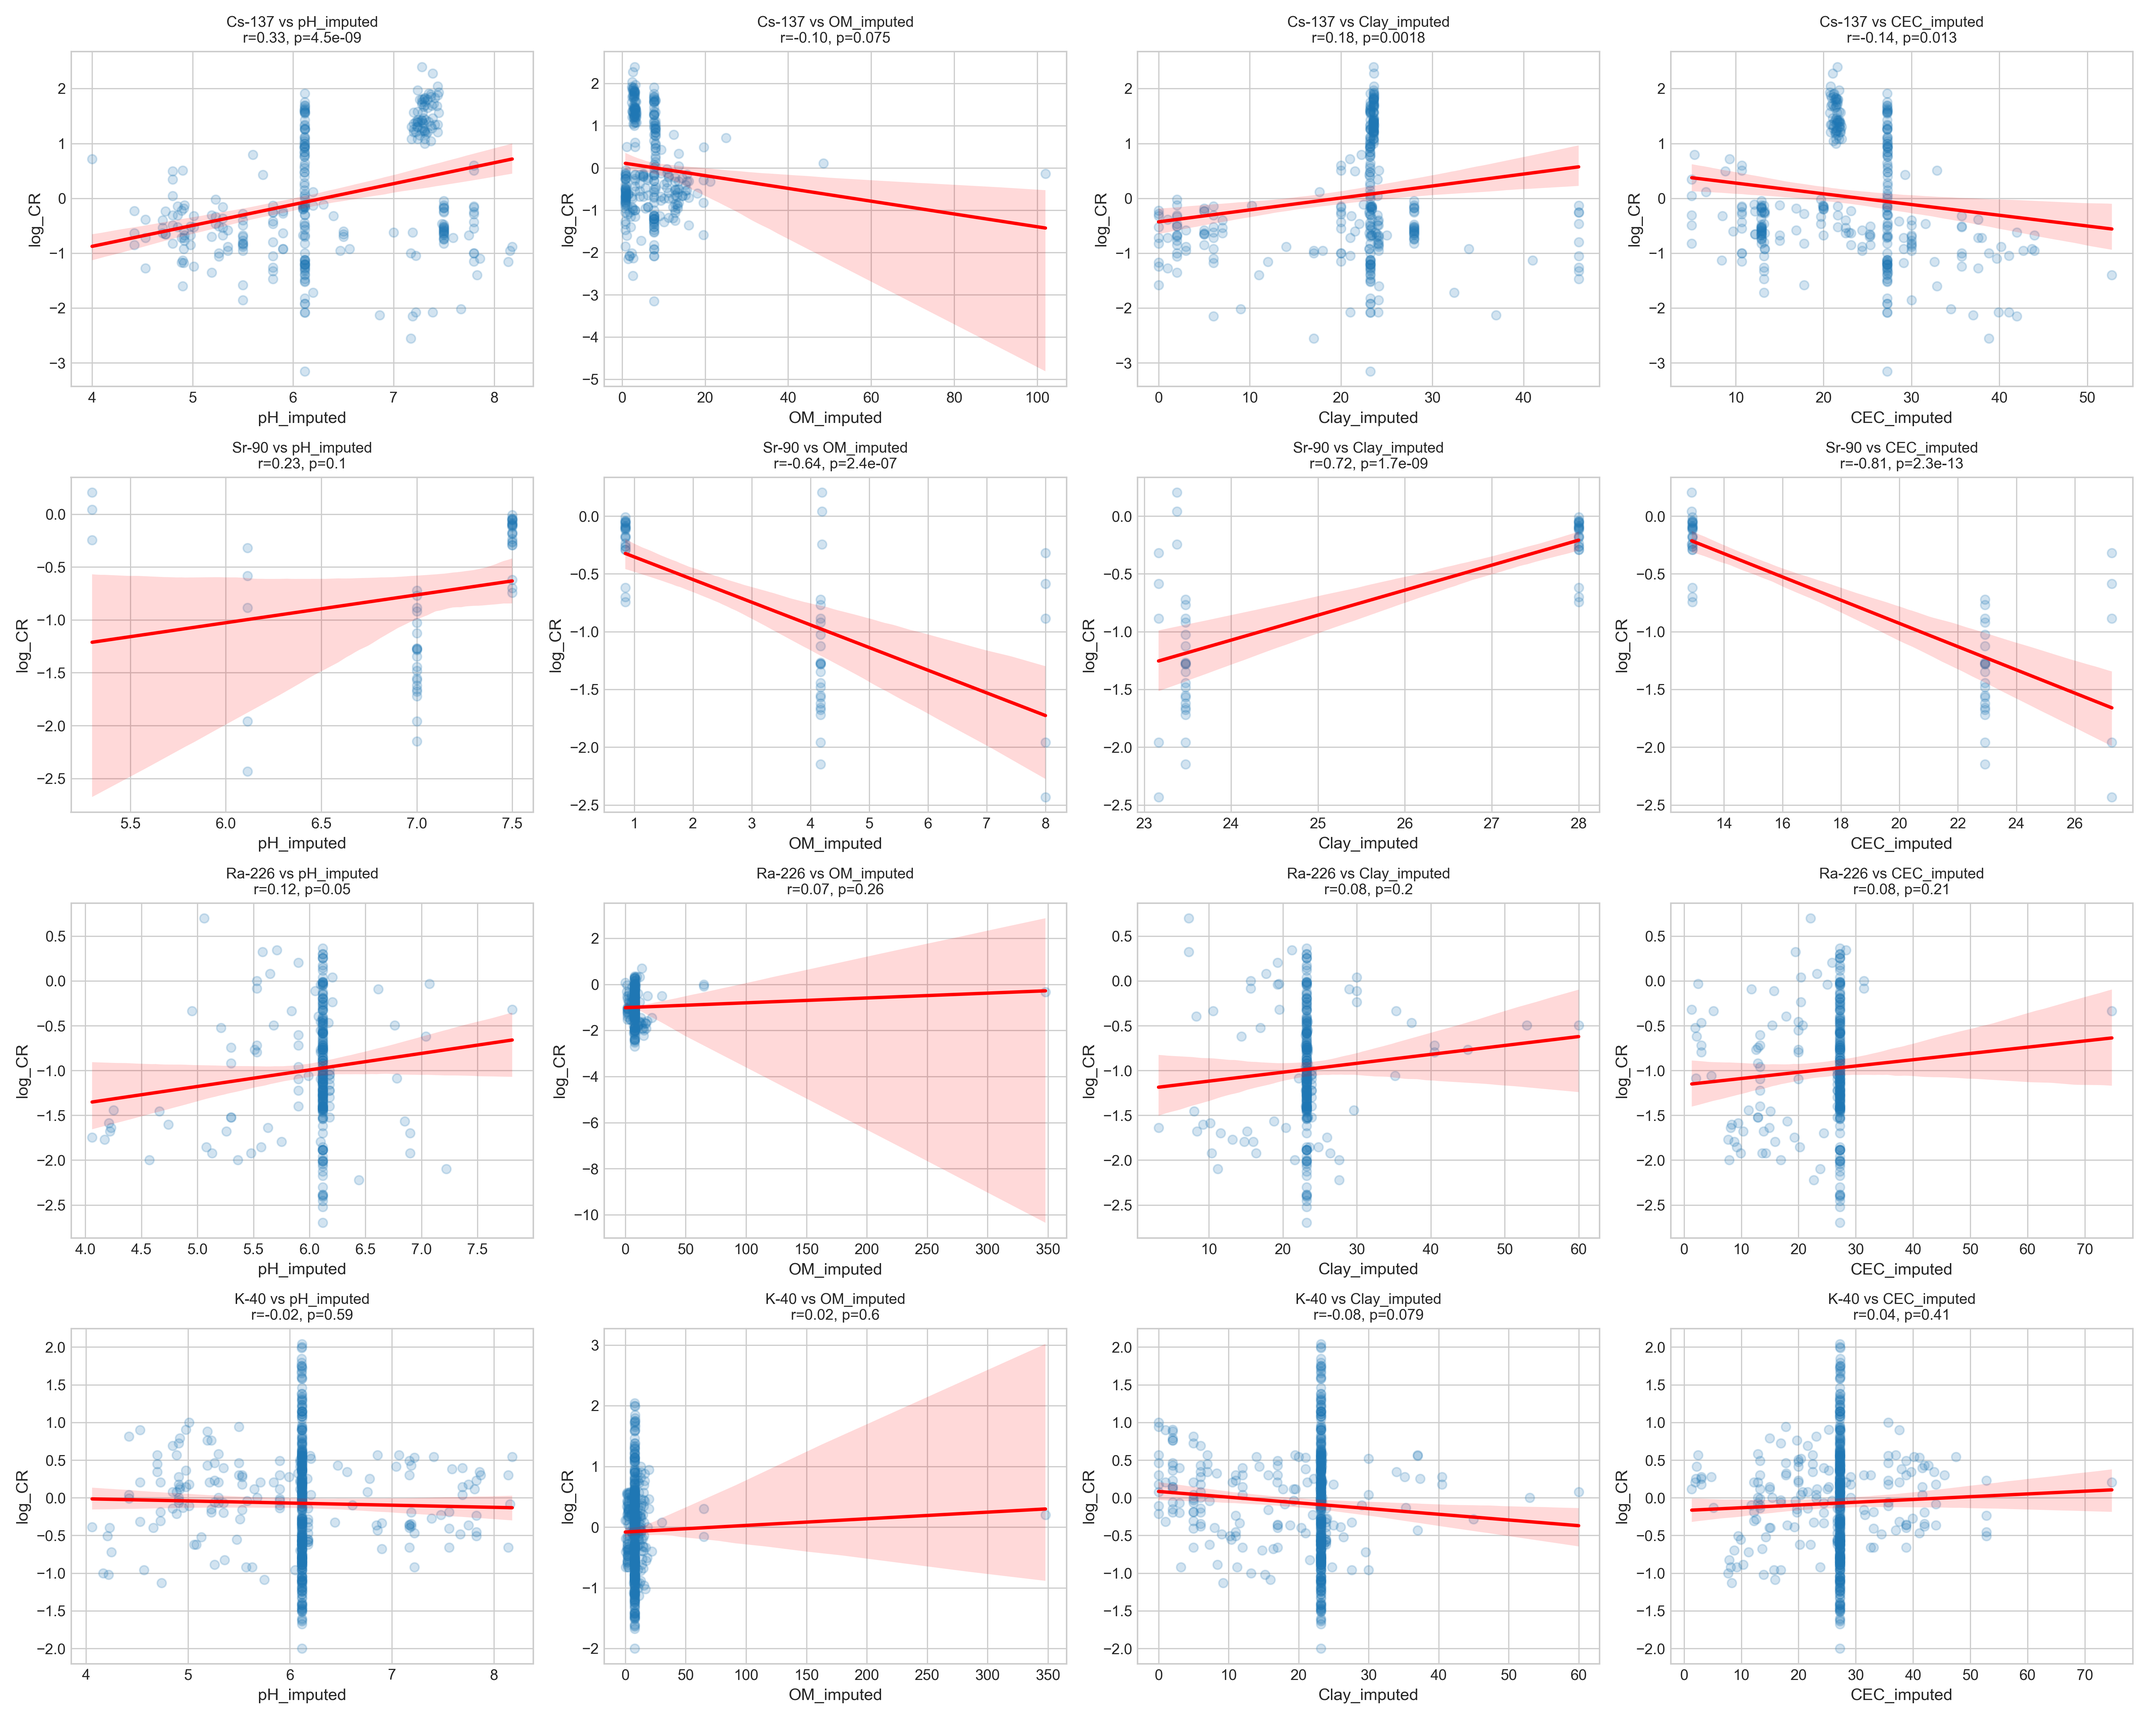
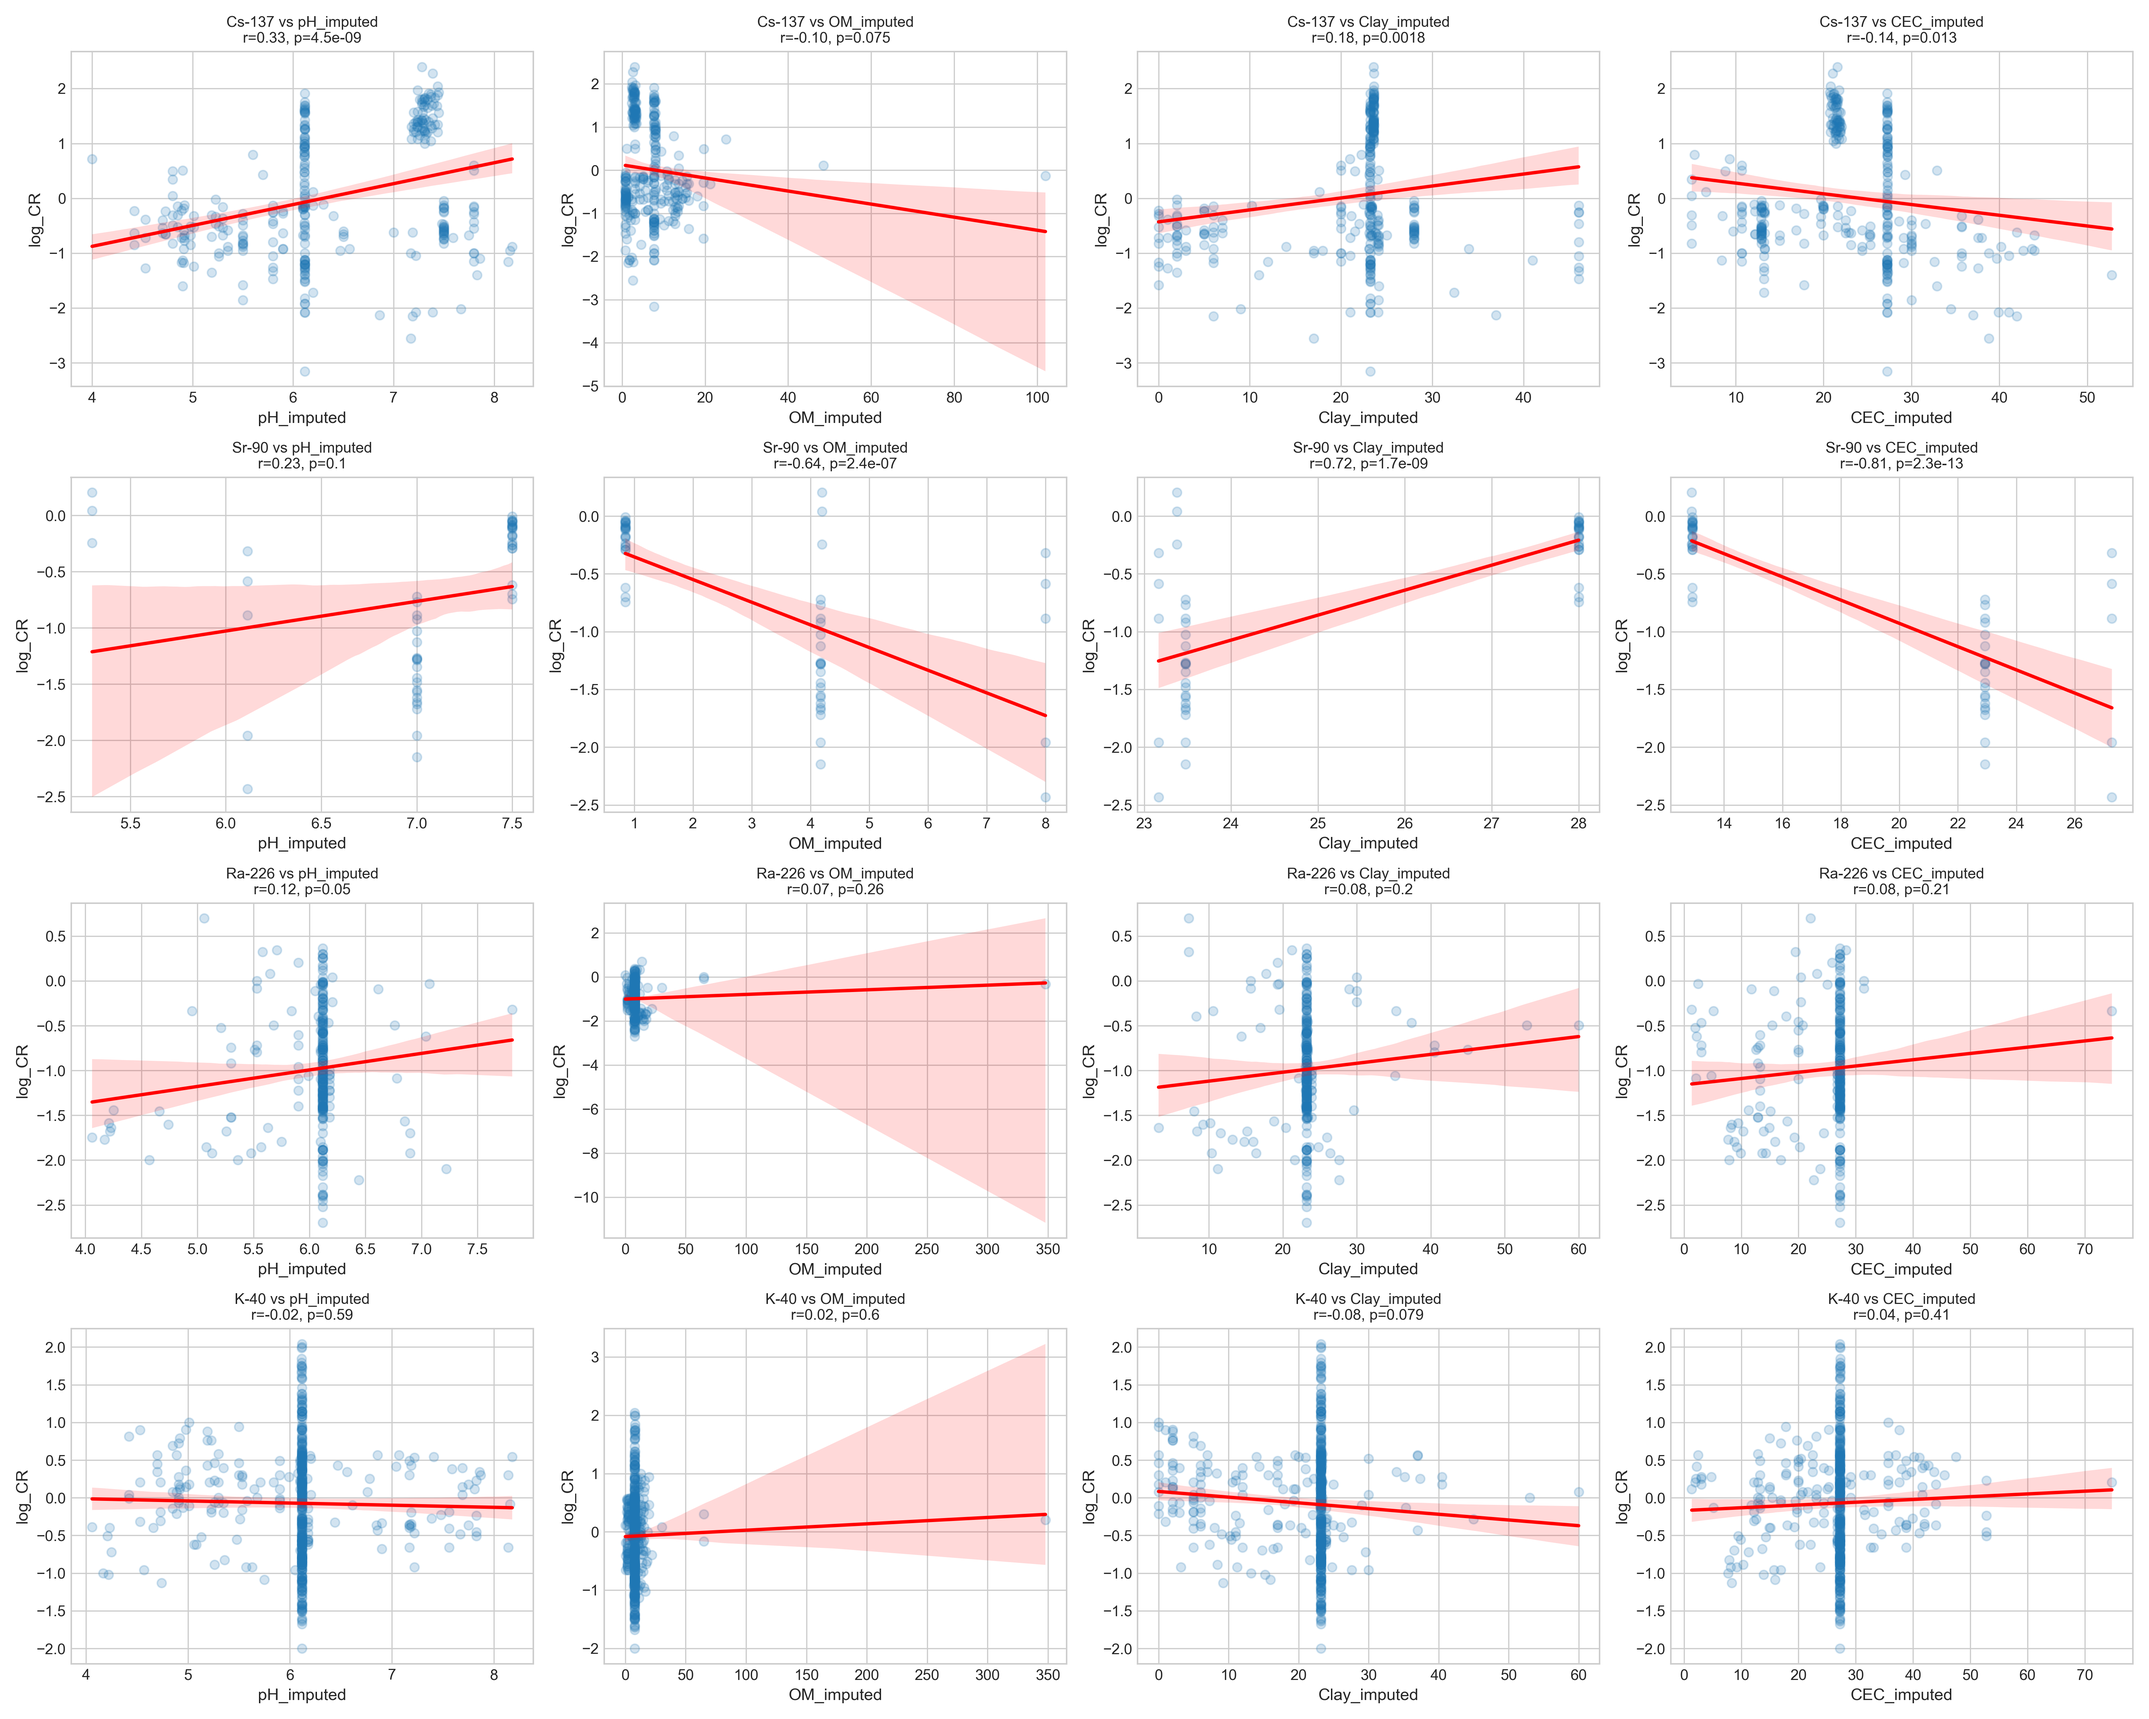
Ablation

diff --git a/Nuclear_Tropical_Analysis.py b/Nuclear_Tropical_Analysis.py
@@ -33,7 +33,8 @@ from sklearn.model_selection import train_test_split
 from sklearn.metrics import r2_score, mean_squared_error, mean_absolute_error
 from sklearn.experimental import enable_iterative_imputer
 from sklearn.impute import IterativeImputer, SimpleImputer
-from sklearn.linear_model import BayesianRidge
+from sklearn.linear_model import BayesianRidge, Ridge
+from sklearn.ensemble import RandomForestRegressor
 import warnings, json, copy, os
 from datetime import datetime
 from pathlib import Path
@@ -212,9 +213,24 @@ class DataPipeline:
         for col in ['CEC_Clay_Ratio', 'pH_OM_Interaction']:
             self.df[col] = self.df[col].fillna(self.df[col].median())
         
-        # 3. Categorical Encoding
-        self.le_dict = {col: LabelEncoder().fit(self.df[col].astype(str)) for col in self.cat_cols}
-        X_cat = np.column_stack([self.le_dict[col].transform(self.df[col].astype(str)) for col in self.cat_cols])
+        # 3. Categorical Encoding (Leakage-Free)
+        self.le_dict = {}
+        X_cat_list = []
+        for col in self.cat_cols:
+            le = LabelEncoder()
+            # Fit strictly on train
+            train_vals = self.df.iloc[tr_idx][col].astype(str)
+            le.fit(train_vals)
+            self.le_dict[col] = le
+            
+            # Handle unseen categories in the full dataset
+            # Map unseen to the most frequent class in train
+            most_freq = train_vals.mode()[0]
+            full_vals = self.df[col].astype(str).copy()
+            full_vals[~full_vals.isin(le.classes_)] = most_freq
+            X_cat_list.append(le.transform(full_vals))
+            
+        X_cat = np.column_stack(X_cat_list)
         
         # 4. Continuous Scaling (UPGRADE 2: RobustScaler fit on Train)
         cont_cols = [f'{col}_imputed' for col in self.numeric_soil_cols] + ['CEC_Clay_Ratio', 'pH_OM_Interaction']
@@ -257,6 +273,15 @@ class RobustPCA:
 # ============================================================================
 
 class MTL_CR_NN(nn.Module):
+    """
+    Isotope-Conditioned Shared-Representation Trunk Network.
+    
+    This architecture utilizes a shared trunk to learn universal soil-plant transfer 
+    representations, with specialized heads for different chemical families. 
+    Unlike traditional multi-label MTL, this network updates only the relevant 
+    family head for each sample row using a .gather() operation, effectively 
+    conditioning the prediction on the isotope's chemical group.
+    """
     def __init__(self, n_cont, cat_sizes, n_tasks=3, emb_dim=4):
         super().__init__()
         self.embs = nn.ModuleList([nn.Embedding(s, emb_dim) for s in cat_sizes])
@@ -301,6 +326,25 @@ def main():
     pipeline = DataPipeline('iaea-modaria-ii-tropical-dataset.csv')
     df = pipeline.load_and_preprocess()
     
+    # SECTION 0: PRE-IMPUTATION DIAGNOSTICS (UPGRADE: Sensitivity Check)
+    print(f"\n{'='*80}\nSECTION 0: PRE-IMPUTATION DIAGNOSTICS\n{'='*80}")
+    raw_soil_params = ['pH', 'OM', 'Clay', 'CEC']
+    raw_targets = ['Cs-137', 'Sr-90', 'Ra-226', 'K-40']
+    raw_stats = []
+    
+    for target in raw_targets:
+        for param in raw_soil_params:
+            sub = df[(df['Target'] == target) & (df[param].notna()) & (df['log_CR'].notna())]
+            if len(sub) > 5:
+                r_p, _ = pearsonr(sub[param], sub['log_CR'])
+                r_s, _ = spearmanr(sub[param], sub['log_CR'])
+                raw_stats.append({
+                    'Target': target, 'Param': param, 
+                    'Pearson_r': r_p, 'Spearman_r': r_s, 'N': len(sub)
+                })
+    pd.DataFrame(raw_stats).to_csv(STATS_DIR / 'S03_raw_soil_dependence_stats.csv', index=False)
+    print("  → S03_raw_soil_dependence_stats saved (Pre-Imputation)")
+
     # UPGRADE: Split BEFORE fit
     tr_idx, te_idx = pipeline.split_data()
     X_cont, X_cat, y_scaled = pipeline.process_features(tr_idx, te_idx)
@@ -336,6 +380,10 @@ def main():
     active_targets = pivot_df.notna().sum()[pivot_df.notna().sum() > 5].index.tolist()
     X_sparse = pivot_df[active_targets].values
     
+    # UPGRADE 3: Log Sparsity Metric
+    sparsity = pivot_df[active_targets].isna().mean().mean() * 100
+    print(f"  → X_sparse Matrix Sparsity: {sparsity:.1f}%")
+
     if X_sparse.shape[0] > 10:
         _, pca_model = RobustPCA.iterative_svd(X_sparse, n_components=min(6, len(active_targets)))
         ld_df = pd.DataFrame(pca_model.components_.T, index=active_targets, columns=[f'PC{i+1}' for i in range(pca_model.n_components_)])
@@ -462,8 +510,62 @@ def main():
     axes[1].set_title(f"MTL Prediction (Global R²={g_r2:.3f})")
     plt.tight_layout(); fig.savefig(MAIN_FIG_DIR / 'Fig4_NN_Results.png')
 
-    # SECTION 5: SUPPLEMENTARY FIGURES
-    print(f"\n{'='*80}\nSECTION 5: SUPPLEMENTARY FIGURES\n{'='*80}")
+    # SECTION 5: BASELINE BENCHMARKING (UPGRADE: Reviewer Request)
+    print(f"\n{'='*80}\nSECTION 5: BASELINE BENCHMARKING\n{'='*80}")
+    # Prepare flat features for baselines
+    X_base = np.column_stack([X_cont, X_cat])
+    X_tr_base, X_te_base = X_base[tr_idx], X_base[te_idx]
+    y_tr_base, y_te_base = y_scaled[tr_idx].flatten(), y_scaled[te_idx].flatten()
+    
+    # 1. Ridge Regression
+    ridge = Ridge(alpha=1.0)
+    ridge.fit(X_tr_base, y_tr_base)
+    ridge_preds_scaled = ridge.predict(X_te_base).reshape(-1, 1)
+    ridge_preds_cr = pipeline.target_transformer.inverse_transform(ridge_preds_scaled).flatten()
+    ridge_preds = np.log10(np.clip(ridge_preds_cr, 1e-10, None))
+    
+    # 2. Random Forest
+    rf = RandomForestRegressor(n_estimators=100, random_state=42)
+    rf.fit(X_tr_base, y_tr_base)
+    rf_preds_scaled = rf.predict(X_te_base).reshape(-1, 1)
+    rf_preds_cr = pipeline.target_transformer.inverse_transform(rf_preds_scaled).flatten()
+    rf_preds = np.log10(np.clip(rf_preds_cr, 1e-10, None))
+    
+    # Comparison Table
+    def get_metrics(a, p, families=None, current_fams=None):
+        res = {}
+        # Global
+        m = np.isfinite(a) & np.isfinite(p)
+        if m.sum() > 0:
+            res['Global'] = (r2_score(a[m], p[m]), np.sqrt(mean_squared_error(a[m], p[m])))
+        else:
+            res['Global'] = (0.0, 0.0)
+            
+        # Family-specific
+        if families is not None and current_fams is not None:
+            for i, fam in enumerate(families):
+                f_m = (current_fams == i) & m
+                if f_m.sum() > 5:
+                    res[fam] = (r2_score(a[f_m], p[f_m]), np.sqrt(mean_squared_error(a[f_m], p[f_m])))
+        return res
+
+    nn_metrics = get_metrics(actual, preds, pipeline.fam_list, te_fam.numpy())
+    ridge_metrics = get_metrics(actual, ridge_preds, pipeline.fam_list, te_fam.numpy())
+    rf_metrics = get_metrics(actual, rf_preds, pipeline.fam_list, te_fam.numpy())
+    
+    comp_data = []
+    for model_name, metrics_dict in zip(['Neural Network', 'Ridge Regression', 'Random Forest'], 
+                                       [nn_metrics, ridge_metrics, rf_metrics]):
+        for scope, (r2, rmse) in metrics_dict.items():
+            comp_data.append({'Model': model_name, 'Scope': scope, 'R2': r2, 'RMSE': rmse})
+    
+    comparison_df = pd.DataFrame(comp_data)
+    comparison_df.to_csv(STATS_DIR / 'nn_vs_baseline.csv', index=False)
+    print("  → nn_vs_baseline.csv saved")
+    print(comparison_df[comparison_df['Scope'] == 'Global'].to_string(index=False))
+
+    # SECTION 6: SUPPLEMENTARY FIGURES
+    print(f"\n{'='*80}\nSECTION 6: SUPPLEMENTARY FIGURES\n{'='*80}")
     
     # FigS1: Distributions
     fig, ax = plt.subplots(figsize=(10, 6))
@@ -485,13 +587,12 @@ def main():
         'n_samples': len(df), 
         'global_performance': {'R2': g_r2, 'RMSE': g_rmse},
         'family_performance': fam_scores,
+        'X_sparse_sparsity': sparsity,
         'pft_distribution': df['PFT'].value_counts().to_dict(),
         'climate_distribution': df['Climate'].value_counts().to_dict(),
         'family_weights': dict(zip(pipeline.fam_list, weights.values.tolist()))
     }
     with open(STATS_DIR / 'S00_master_statistics.json', 'w') as f: json.dump(stats_data, f, indent=4)
-    # Also save as master_statistics.json for redundancy as seen in original tree
-    with open(STATS_DIR / 'master_statistics.json', 'w') as f: json.dump(stats_data, f, indent=4)
     print("\nANALYSIS COMPLETE.")
 
 if __name__ == "__main__": main()

diff --git a/GEMINI.md b/GEMINI.md
@@ -1,0 +1,44 @@
+Act as an expert Research Engineer in AI and Geostatistics. I need you to refactor an environmental machine learning pipeline analyzing the IAEA MODARIA II tropical radionuclide dataset. A journal reviewer has requested a major revision based on specific architectural, validation, and geostatistical bottlenecks. 
+
+Below is the exact code to modify, followed by the specific structural upgrades you must implement. 
+
+=========================================
+CURRENT CODEBASE (Nuclear_Tropical_Analysis.py)
+
+=========================================
+REQUIRED REFACTORING TASKS
+=========================================
+
+1. IMPLEMENT BASELINE BENCHMARKING MODELS
+- To justify using a Deep Learning network, you must bench it against standard baseline models.
+- In main(), after splitting data, train a Baseline Ridge Regression model and a Baseline Random Forest Regressor (or XGBoost) using the same continuous and encoded categorical features.
+- Evaluate these baseline models on the test set (inverse-transforming targets just like the neural network evaluation).
+- Calculate global and family-specific R² and RMSE scores for these baselines.
+- Export a comprehensive model comparison to './Results_Tropical/Statistics/nn_vs_baseline.csv' detailing performance across the Neural Network, Ridge, and Random Forest models.
+
+2. ADD IMPUTATION SENSITIVITY CHECK DIAGNOSTICS
+- The reviewer is concerned that the global MICE (IterativeImputer) may be injecting artificial covariance structures into small isotope subsets (e.g., Sr-90 vs K-40).
+- Before conducting soil parameter imputation, calculate the raw, unimputed Pearson and Spearman correlation matrices for the targets plotted in Section 3 (Cs-137, Sr-90, Ra-226, K-40) against the raw soil parameters ('pH', 'OM', 'Clay', 'CEC').
+- Export these raw correlations along with their exact sample sizes (N) into a new diagnostic file: './Results_Tropical/Statistics/S03_raw_soil_dependence_stats.csv'.
+- This allows a reviewer to directly compare the pre-imputation vs. post-imputation correlation trends to verify that MICE did not fabricate linear relationships.
+
+3. LOG SPARSITY METRIC FOR ROBUST PCA
+- In Section 2, before executing 'RobustPCA.iterative_svd(X_sparse)', compute the exact sparsity (percentage of missing/NaN entries) of the 'X_sparse' matrix.
+- Print this percentage to the terminal during execution (e.g., "  → X_sparse Matrix Sparsity: XX.X%") and append this scalar metric to the final master statistics dictionary saved under 'stats_data'.
+
+4. ELIMINATE CATEGORICAL DATA LEAKAGE
+- In 'DataPipeline.process_features', the LabelEncoder is currently globally fit on the entire dataframe: 'LabelEncoder().fit(self.df[col].astype(str))'. This introduces subtle data leakage.
+- Refactor this to fit the LabelEncoder strictly on the training indices 'tr_idx'. 
+- To handle potential unseen categories in the test set, implement a robust fallback strategy (e.g., mapping unseen categories to an 'Unknown' token or forcing them to the most frequent class) before running '.transform()' on 'te_idx'.
+
+5. ARCHITECTURAL TRANSPARENCY & CLARIFICATION
+- Because each sample row contains a single target element family index, the network utilizes a '.gather()' layer during training, updating only one head's loss path at a time per sample.
+- Add descriptive code comments inside 'MTL_CR_NN' and the training loop clarifying that this setup operates technically as an "Isotope-Conditioned Shared-Representation Trunk Network" rather than traditional simultaneous multi-label Multi-Task Learning. 
+
+6. CODE CLEANUP
+- Remove the redundant code block at the end of the script that writes the exact same 'stats_data' dictionary out twice to two separate filenames in the same directory. Keep only the write to 'S00_master_statistics.json'.
+
+=========================================
+OUTPUT REQUIREMENT
+=========================================
+Please provide the fully updated, self-contained Python script. Ensure all matplotlib figure saves, directory paths, and random seeds remain identical to preserve historical continuity where applicable.
